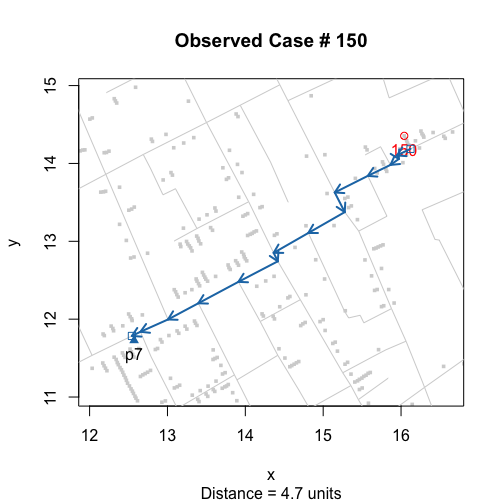
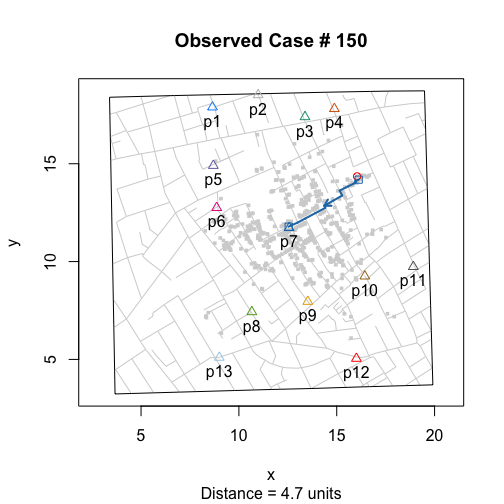
set walkingPath "zoom" to default FALSE

diff --git a/README.md b/README.md
@@ -32,7 +32,7 @@ While a popular and easy to compute choice, the drawback is that it assumes that
 First, I transform the street data, which records roads as line segments, into a "social" graph or network. With this, computing walking distance becomes a graph theory problem: it is the shortest path between a given case (observed or simulated) and its nearest pump:
 
 ``` r
-walkingPath(150, zoom = TRUE)
+walkingPath(150)
 ```
 
 ![](README-path-1.png)
